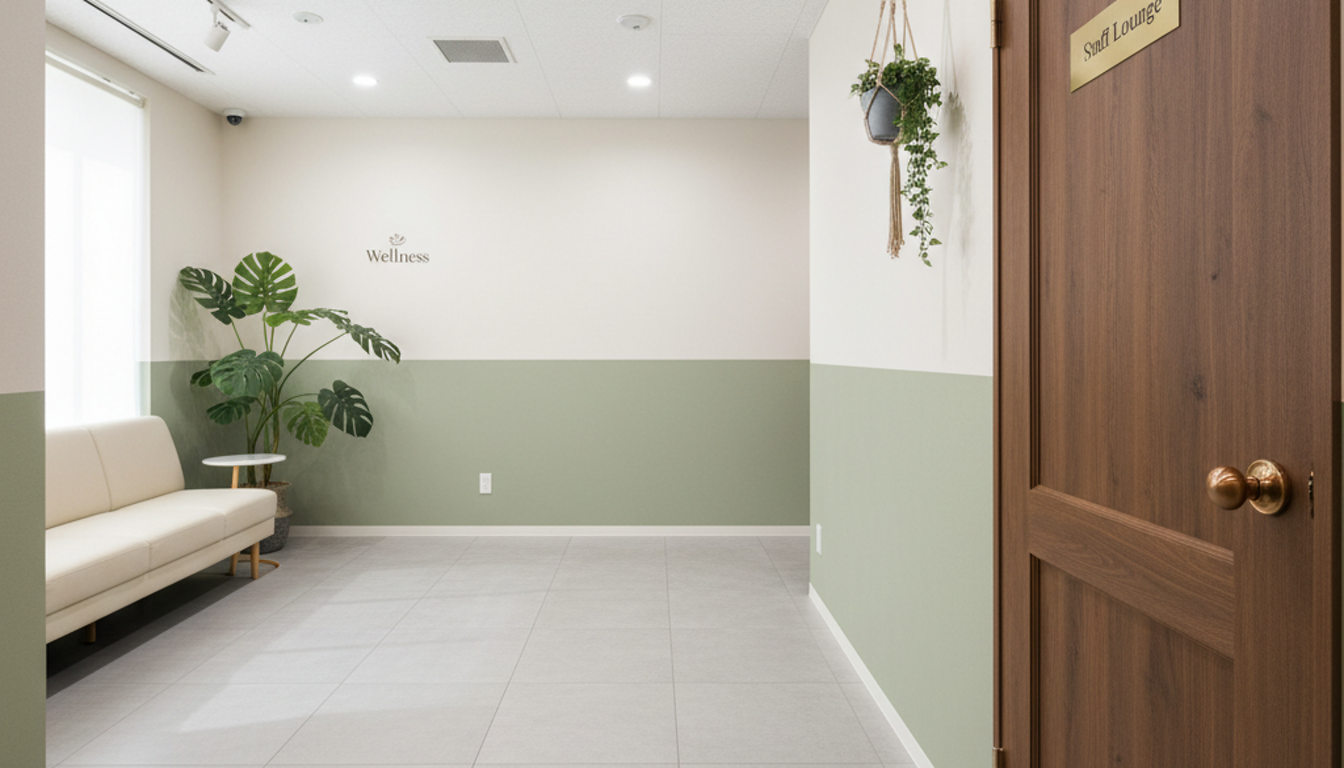
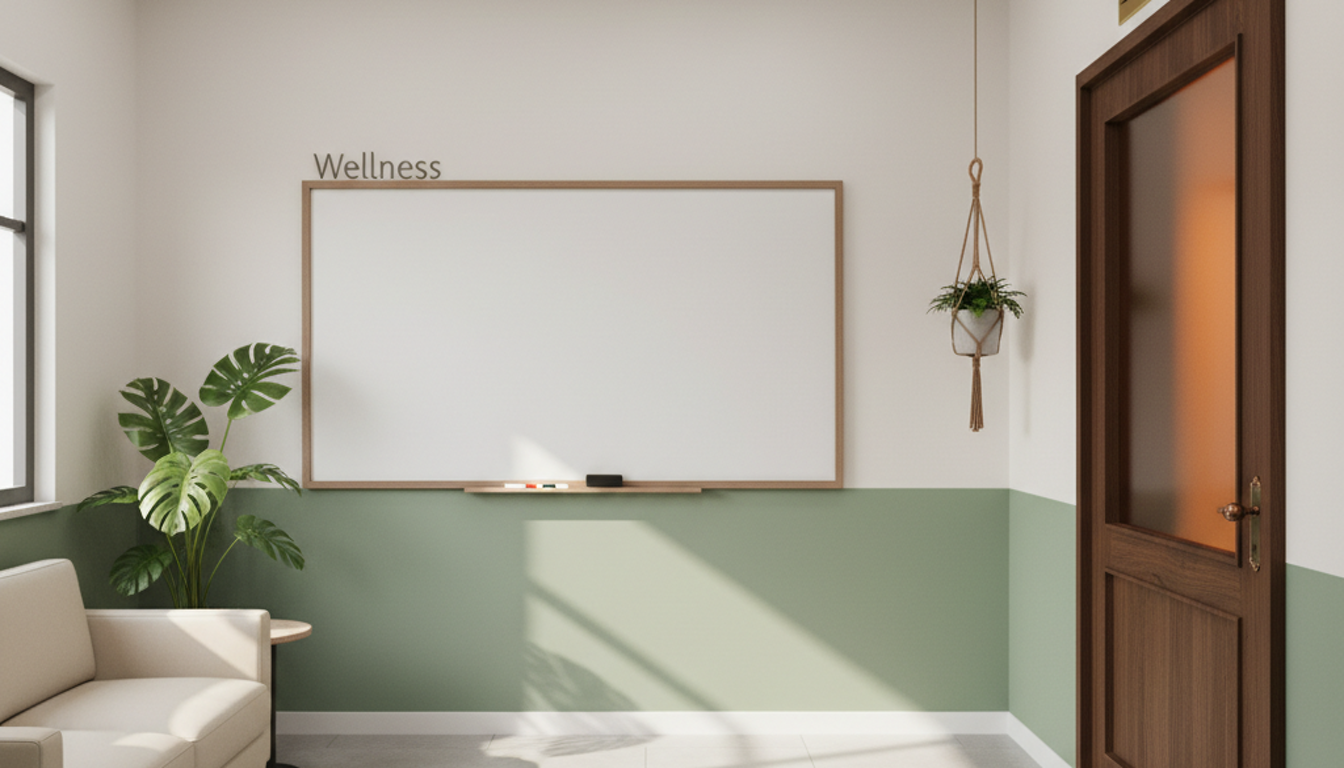
健康管理室+ヘルスを再描画 (廊下感解消・若返り・ショートカット)
部屋:
- 廊下のような細長い空間 → 正方形に近い相談ルームに
- 正面の壁にホワイトボード+「Wellness」サイン (Canvas overlay の貼付先)
- 左壁=ソファ+モンステラ+小窓
- 右壁=ダークウォルナットの隠し扉 (☕Staff Lounge + マクラメ)
- 扉から暖色照明が漏れる演出は維持

ヘルスアドバイザー:
- 30代→20代後半 (若返り)
- ボブ→ショートカット (耳が見える短め、ベリーショート寄り)
- 淡い水色スクラブで親しみやすく爽やか

キャッシュバスター:
- floors.bg_image v=3 → v=4
- BOT_STANDING bot_health ?v=4 → ?v=5

diff --git a/server/scripts/gen_wellness_secret_door.js b/server/scripts/gen_wellness_secret_door.js
@@ -8,47 +8,83 @@ const apiKey = process.env.GEMINI_API_KEY;
 if (!apiKey) { console.error('GEMINI_API_KEY未設定'); process.exit(1); }
 
 const ROOM_OUT = '/opt/cohub/public/assets/floor_wellness_room.png';
+const ADVISOR_OUT = '/opt/cohub/public/assets/concierge_health_full.png';
 
-const ROOM_PROMPT = `現代的な企業内の**健康管理室・産業保健ラウンジ**の**一人称視点**画像を生成してください。
-**最重要**: 部屋の右側に「推進カフェへの隠し扉」を配置し、扉までの動線を開けておくこと (**デスク等の家具で扉を遮らない**)。
+const ROOM_PROMPT = `現代的な企業内の**健康管理室 (奥行きのある正方形に近い相談ルーム)** の**一人称視点**画像を生成してください。
+**最重要**: 廊下のような細長い空間に見せず、**正面の壁が見える奥行きのある部屋**として描くこと。
+正面の壁 (奥) に**ホワイトボード**、左壁にラウンジ、右壁に隠し扉という三方の構成。
 
 【視点・構図】
-- 部屋に入って中央を見る人間の目線 (身長170cm)
+- 部屋に入って正面を見る人間の目線 (身長170cm)
 - **必ず 16:9 横長アスペクト比** (1344×768 px)
-- 部屋の中央〜右側は **広く開けたフロア空間** (家具なし、扉まで歩ける動線)
-- 床はライトグレーの大判タイル、天井は白くダウンライト点在
-- 壁は**淡い緑 (セージグリーン) + オフホワイト**のツートン
+- 部屋は**正方形に近い4角形**、奥行き感は適度 (廊下感NG)
+- 正面の壁 (奥) が画面の縦方向 30〜70% を占める広い壁面として見える構図
+- 左壁は手前から斜めに、右壁は手前から斜めに、両側壁は緩やかなパース
 
-【家具配置 (左側のみ、右半分は完全に開ける)】
-- **左側のみ** (横方向 0%〜35%) に待合エリア:
-  - クリーム色のラウンジソファ 1脚 (画面左端・横向き)
-  - 小さな丸サイドテーブル 1台
-  - 大きな観葉植物 (モンステラ等) 1株
-- **デスクや受付カウンターは描かない** (相談はソファで会話する想定)
-- 左奥の壁に小さな「Wellness」のサインのみ (控えめ)
+【正面の壁 (奥)】
+- **大きなホワイトボード** (横幅2.4m相当の大型) を中央〜左寄りに掛ける
+  - 木製フレーム+ホワイト面、表面はやや反射控えめ
+  - ホワイトボードの上に「Wellness」の控えめなサイン
+  - ホワイトボードに**何も書かない**(後でCanvas overlay で動的に上書きするため真っ白)
+- 壁の下半分は**淡いセージグリーン**、上半分は**オフホワイト**のツートン
 
-【★ 隠し扉 (画面右側、最重要要素)】
-- **画面の右側 (横方向 75%〜95%、縦方向 25%〜90%) に木製の単扉**
-- ドアのデザイン: **ダークウォルナットの木製扉**、銅色アンティークノブ、扉上に黄銅プレート
-- 扉の上に **「☕ Staff Lounge」の真鍮プレート看板** (英字のみ、Garamond風)
-- 扉の左脇 (扉と中央の間) に **マクラメ吊り植木鉢** を1つ
-- 扉の周囲は壁紙と微妙に色味が違い 「秘密の隠し扉」感
-- 扉が半開きで **奥にカフェの暖色照明** がチラっと漏れる演出
-- 扉の大きさは画面全高の 60-70% (人が通れる十分なサイズ)
-- **扉までの床は何も置かず開けておくこと** (ソファ等で隠さない)
+【左壁・手前左 (待合)】
+- クリーム色のラウンジソファ 1脚 (画面左端、視点側に少し向ける)
+- 小さな丸サイドテーブル 1台
+- 大きな観葉植物 (モンステラ等) 1株
+- 左奥の壁に小さな窓、朝の光が差し込む
+
+【★ 右壁の隠し扉 (推進サロン入口)】
+- **画面右側 (横方向 78%〜95%、縦方向 25%〜85%) に木製の単扉**
+- **ダークウォルナット**の木製扉、銅色アンティークノブ
+- 扉上に **「☕ Staff Lounge」の真鍮プレート看板** (英字、Garamond 風)
+- 扉の左脇 (扉と中央の間) に**マクラメ吊り植木鉢** 1つ
+- 扉が**少し半開き**で、中からカフェの**暖色オレンジ照明**がチラっと漏れる演出
+- 扉と部屋の壁の境界に微妙な木目の段差で「隠し感」
+- 扉の大きさは画面全高の 60〜70%
+
+【床・天井】
+- 床はライトグレーの大判タイル
+- 天井は白でダウンライトが点在 (一様で柔らかい光)
 
 【トーン・雰囲気】
-- 左半分 = 清潔感のあるラウンジ (グリーン+ホワイト)
-- 右半分 = 静かな扉までの開けた動線 + 暖色を漏らす扉の対比
-- 朝の柔らかい光が左奥の窓から差し込む
-- リアル写真調 (CG・イラスト風ではなく、実写風レンダリング)
+- 清潔感のある産業保健ラウンジ
+- 左半分 = グリーン+ホワイト+朝光
+- 右半分 = 隠し扉の暖色対比
+- リアル写真調 (CG・イラスト風NG)
 
 【重要・厳守】
-- **人物は一切描かない** (後で別レイヤーでアバター重ねる)
-- **デスク・受付カウンター・PC・大型棚は描かない** (扉の動線を遮るため)
-- 文字・看板は「Wellness」と扉上「Staff Lounge」のみ
-- 扉が一目で見え、かつ歩いて辿り着ける動線が確保された構図
-- 旧画像 (扉前にデスク有り) と差し替わるので、明確に違う「開放型ラウンジ+扉」レイアウトで生成すること`;
+- **人物は一切描かない**
+- **デスク・受付カウンター・PC・大型棚は描かない**
+- **廊下のような細長い空間にしない** (正方形に近い部屋として描く)
+- 正面の壁にホワイトボードが見える構図 (奥行き感が伝わる)
+- 文字は「Wellness」と扉上「Staff Lounge」のみ`;
+
+// 5/4: ヘルスアドバイザーを若返り (20代後半) + ショートカット に再生成
+const ADVISOR_PROMPT = `**産業保健の AI ヘルスアドバイザー**の**若い女性**キャラクター立ち姿を生成してください。
+
+【キャラクター】
+- **20代後半**の親しみやすい印象の女性 (アジア系)
+- **ショートカット** (耳が見える短めのボブ〜ベリーショート、サイドはすっきり)
+- 髪色は自然な黒〜ダークブラウン
+- 表情: 明るく爽やか、信頼できる優しい笑顔 (口角少し上)
+- 体型: スマート、健康的
+- **淡い水色のスクラブ (医療用ユニフォーム)** 上下、白衣ではなくスポーティな印象
+- 名札は無地、固有名は無し
+- ポーズ: 正面向きで両手を体の前で軽く重ねる (相談を歓迎する姿勢)
+- アクセサリー控えめ (ピアスや細いネックレス程度OK)
+
+【スタイル】
+- リアル写真調 (Pixar/アニメではない、実写ベース)
+- 全身が入る縦長構図 (頭から足まで、背景は**完全に白 #FFFFFF**)
+- 背景に余計な装飾やグラデーションを入れない (透過処理用)
+- 立ち姿の影は最小限
+
+【重要】
+- 背景は**真っ白(無地)**にしてください (後でクライアント側で透過処理)
+- キャラクター以外の物体 (机、椅子、医療器具等) を入れない
+- 顔は具体的すぎない、誰にでも親しみやすい平均的な造形
+- 「年齢が若く感じる、ショートカットで爽やか、医療現場の頼れる若手」という印象`;
 
 async function geminiImage(prompt, label) {
   const url = 'https://generativelanguage.googleapis.com/v1beta/models/gemini-2.5-flash-image:generateContent?key=' + apiKey;
@@ -71,6 +107,7 @@ async function geminiImage(prompt, label) {
 }
 
 (async () => {
+  // 1) 部屋画像
   try {
     if (fs.existsSync(ROOM_OUT)) fs.copyFileSync(ROOM_OUT, ROOM_OUT + '.bak.' + Date.now());
     const tmpRoom = ROOM_OUT + '.raw';
@@ -79,7 +116,14 @@ async function geminiImage(prompt, label) {
     fs.unlinkSync(tmpRoom);
     console.log('✅ 健康管理室+隠し扉:', ROOM_OUT);
   } catch (e) {
-    console.error('失敗:', e.message);
-    process.exit(2);
+    console.error('部屋画像失敗:', e.message);
+  }
+  // 2) ヘルスアドバイザー (若返り+ショート)
+  try {
+    if (fs.existsSync(ADVISOR_OUT)) fs.copyFileSync(ADVISOR_OUT, ADVISOR_OUT + '.bak.' + Date.now());
+    fs.writeFileSync(ADVISOR_OUT, await geminiImage(ADVISOR_PROMPT, 'advisor_v2'));
+    console.log('✅ ヘルスアドバイザー (若返り):', ADVISOR_OUT);
+  } catch (e) {
+    console.error('アドバイザー失敗:', e.message);
   }
 })();

diff --git a/public/index.html b/public/index.html
@@ -2771,7 +2771,7 @@ function loadAvatar(u) {
 // 末尾の v= は新ポーズ画像差替時のキャッシュバスター
 const BOT_STANDING = {
   'bot_aoi':    '/assets/concierge_aoi_full.png?v=2',
-  'bot_health': '/assets/concierge_health_full.png?v=4',
+  'bot_health': '/assets/concierge_health_full.png?v=5',
   'bot_safety': '/assets/concierge_safety_full.png?v=3',
   'bot_master': '/assets/concierge_master_full.png?v=1',
 };
